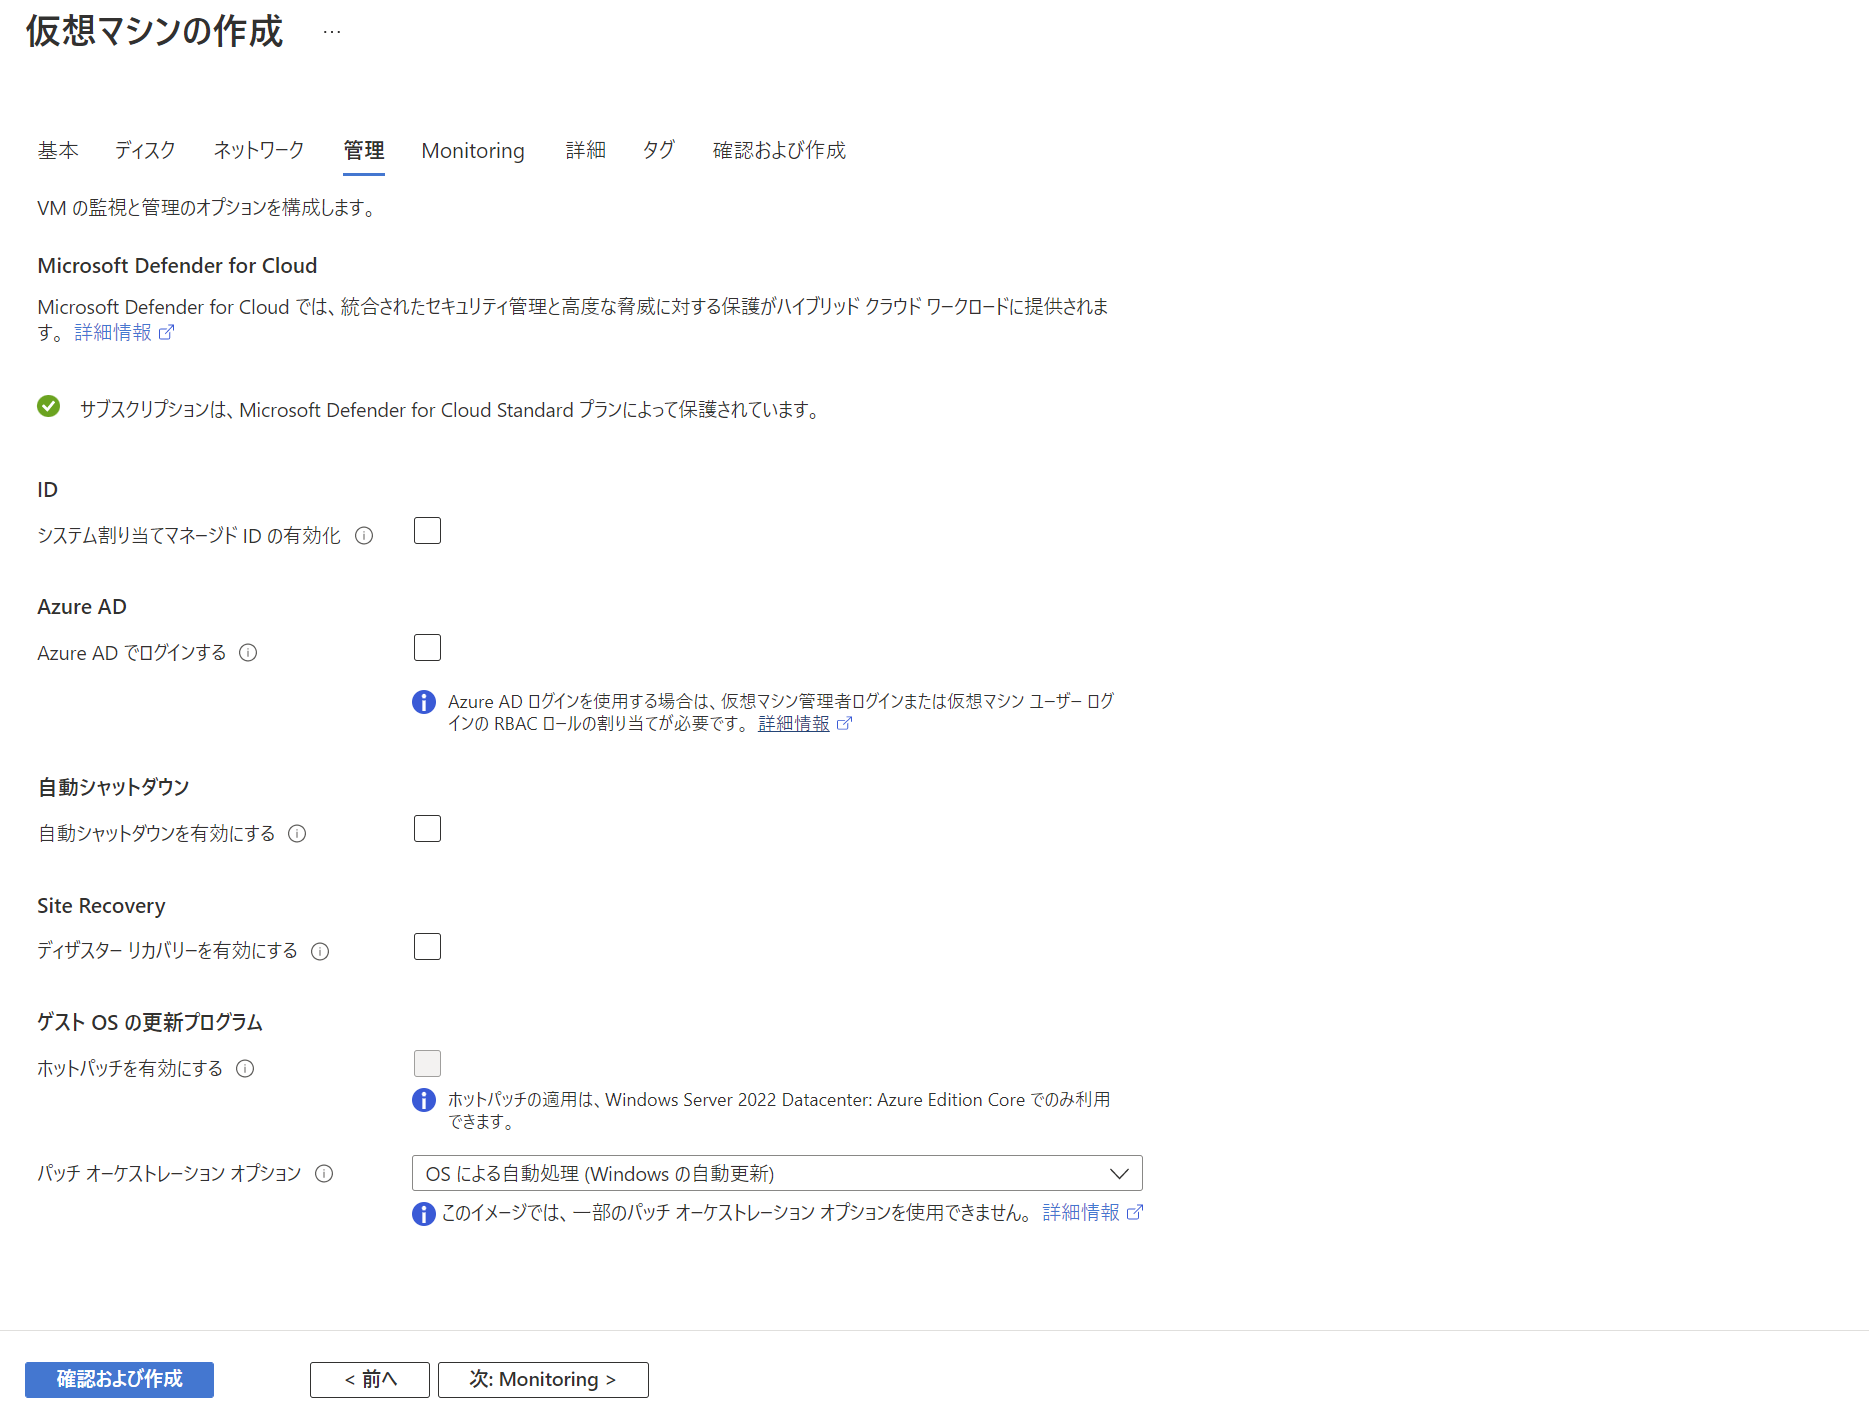
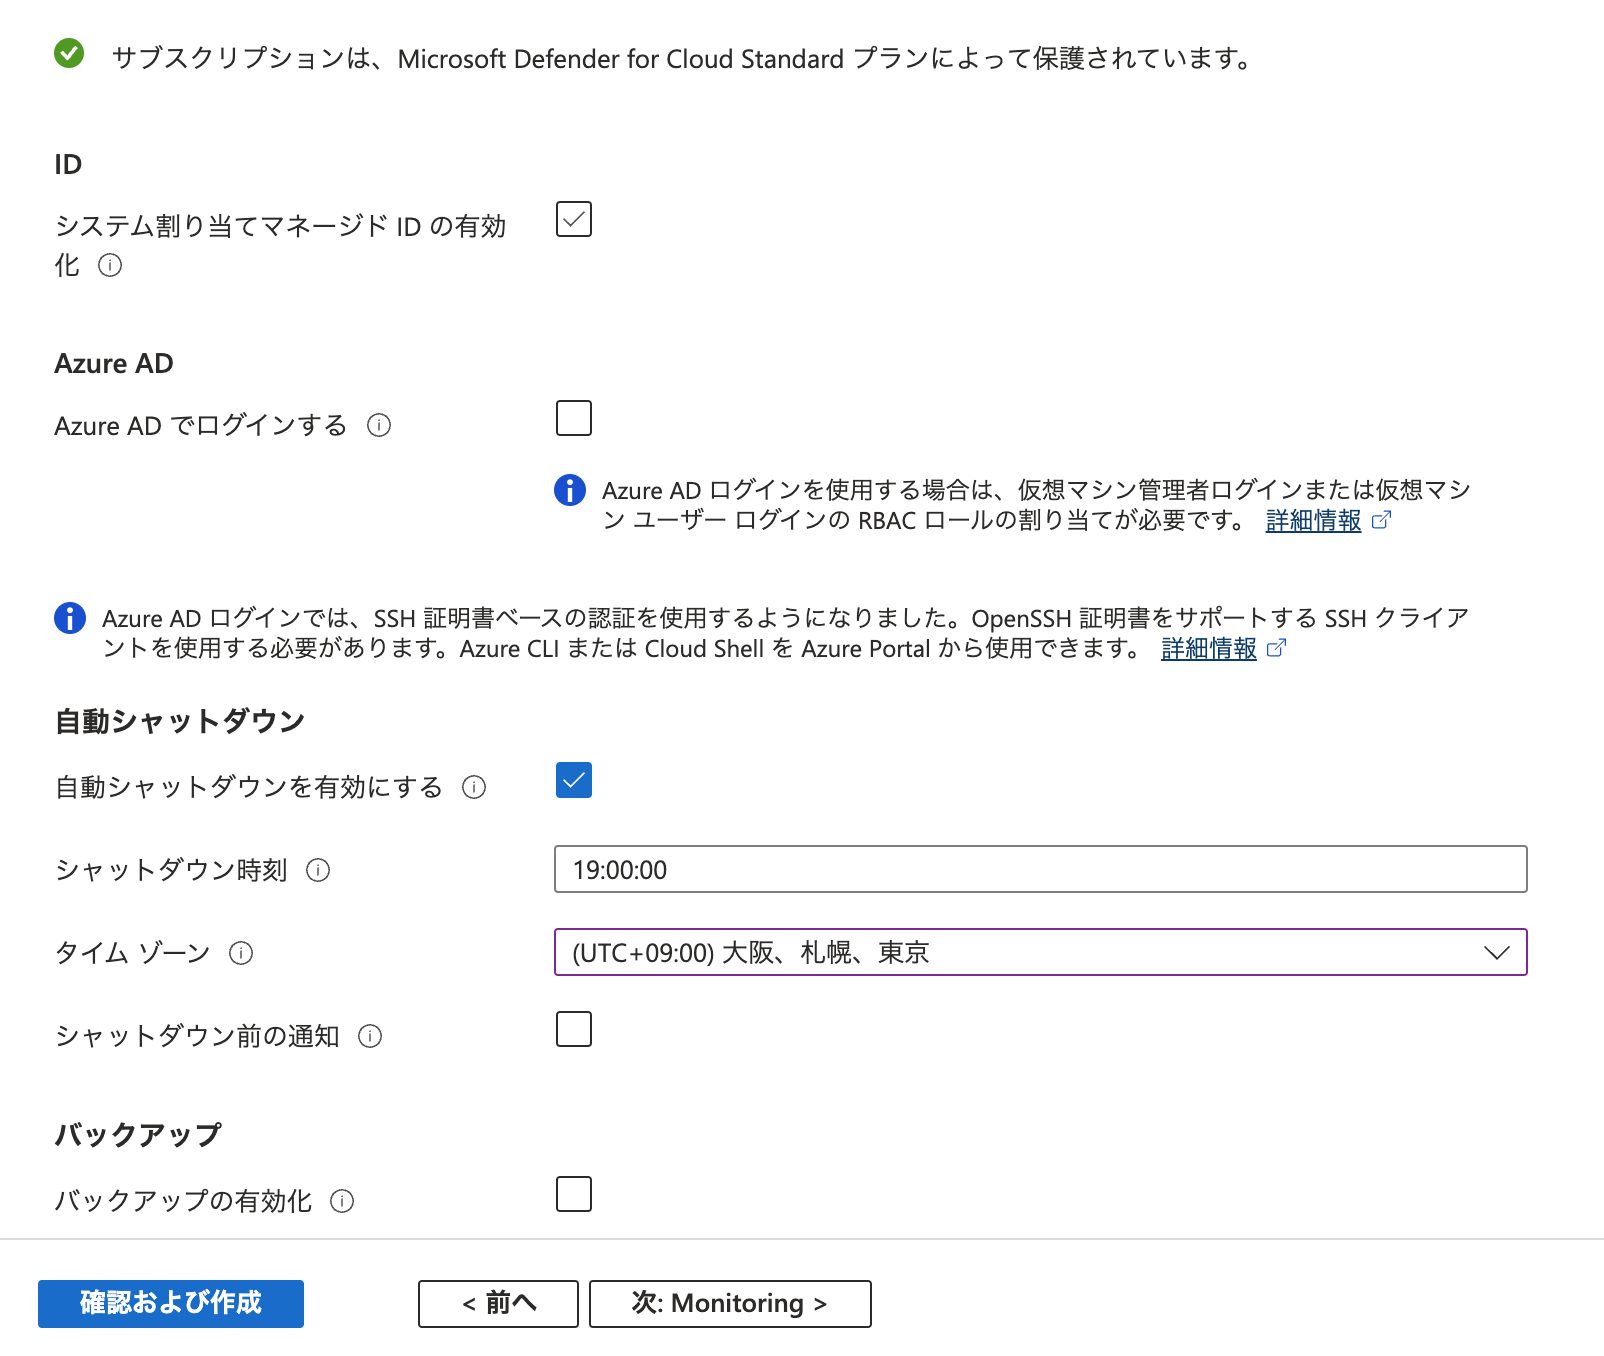
update: HOL step-by-step.md

diff --git a/HOL step-by-step.md b/HOL step-by-step.md
@@ -565,7 +565,11 @@ October 2022
 
   - 「**管理**」タブ
 
-      - 既定の設定
+    - 自動シャットダウン
+
+      - **自動シャットダウンを有効にする**: オン
+
+        ※その他は既定の設定
 
       <img src="images/virtual-machine-05.png" />
 
